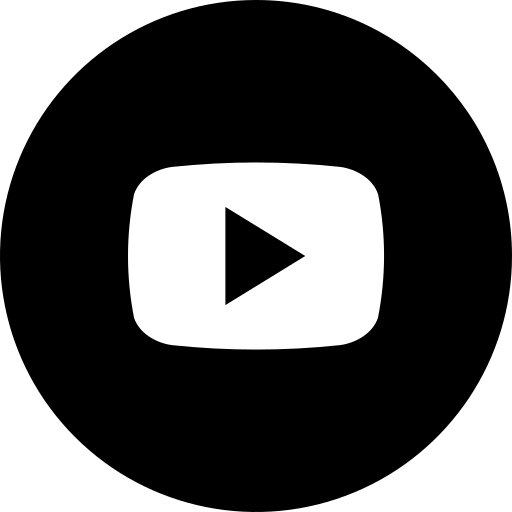
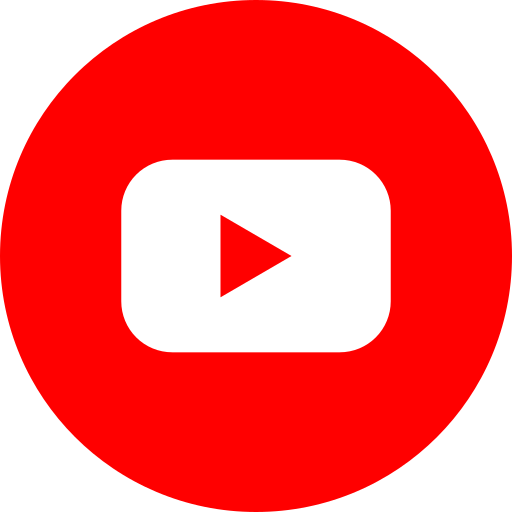
coloquei os botoes

diff --git a/index.html b/index.html
@@ -13,8 +13,12 @@
             <iframe src="./home.html" name="tela" id="tela" frameborder="0"></iframe>
         </section>
         <section id="redes-sociais">
-
-        </section>
+            <a href="#" target="tela"><img src="imagens/botao-home.png" alt="home";></a> <br>
+            <a href="#" target="tela"><img src="imagens/instagram.png" alt="instagram"></a>  <br>
+            <a href="#" target="tela"><img src="imagens/linkedin.png" alt="linkedin"></a> <br>
+            <a href="#" target="tela"><img src="imagens/youtube.png" alt="youtube"></a> <br>
+            <a href="#" target="tela"><img src="imagens/telegrama.png" alt="telegrama"></a> <br>
+         </section>
     </main>
 </body>
 </html>

diff --git a/estilos/style.css b/estilos/style.css
@@ -33,4 +33,21 @@ iframe#tela {
     left: 26px;
     width: 272px;
     height: 485px;
+    border-radius: 2px;
+}
+section#redes-sociais {
+    text-align: right;
+}
+section#redes-sociais img {
+    width: 50px;
+    margin: 10px;
+    border-radius: 50%;
+    box-shadow: 2px 2px 5px rgba(0, 0, 0, 0.425);
+    box-sizing: border-box;
+}
+section#redes-sociais img:hover {
+    border: 2px solid rgba(255, 255, 255, 0.623);
+    transform: translate(-3px, -3px);
+    box-shadow: 5px 5px 10px rgba(0, 0, 0, 0.637);
+    transition: transform .4s, border 1s;
 }
